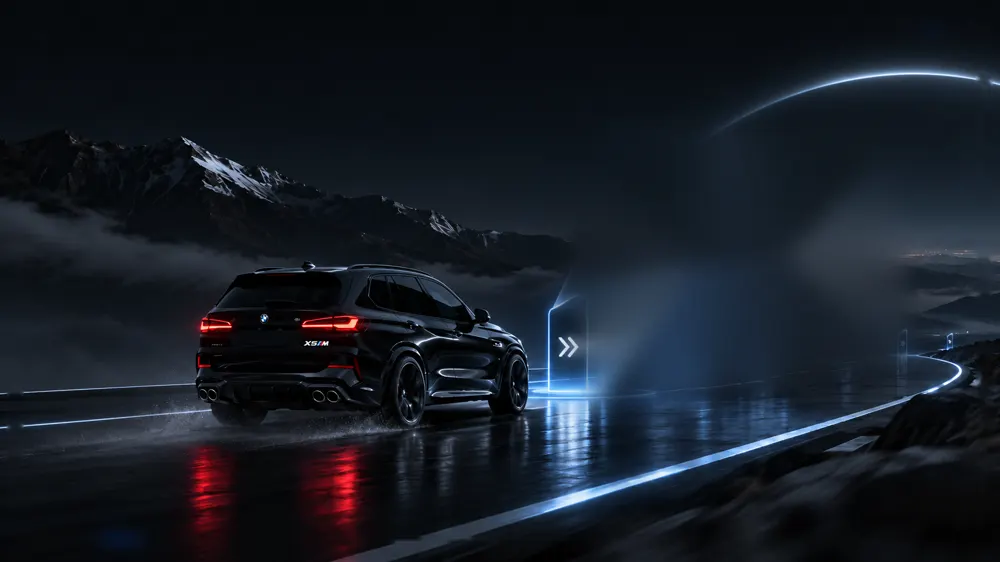
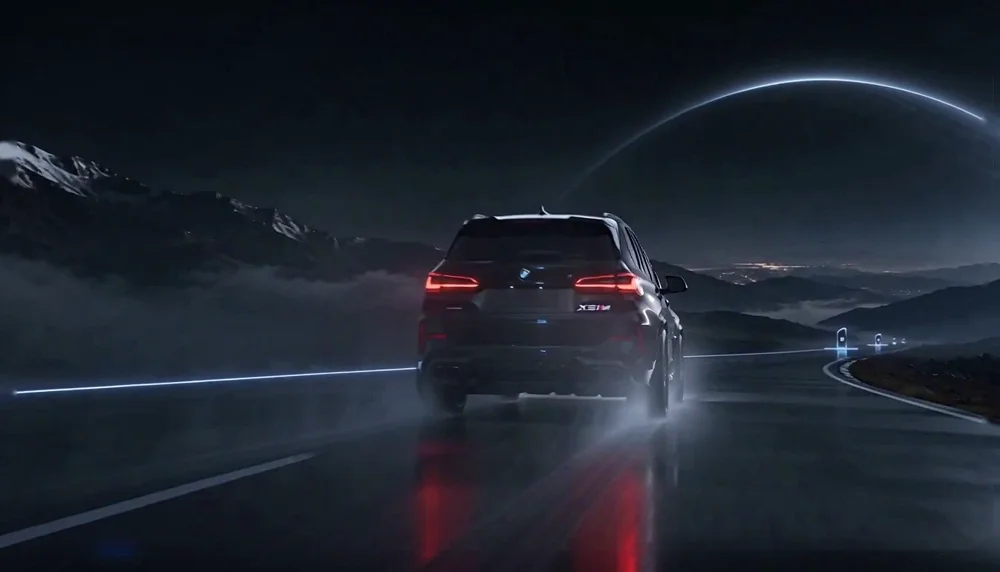
Мобильная версия: сцена на весь экран и карточки снизу; бесшовный конец вступления; плавные переходы
Claude-Session: https://claude.ai/code/session_01QUwKFWEF5ddN8PEAZgc18w

diff --git a/styles.css b/styles.css
@@ -135,7 +135,7 @@ h1, h2, h3, h4, p { margin: 0; }
 .panel.is-active { opacity: 1; visibility: visible; }
 .panel::before { content: ""; position: absolute; top: -1px; height: 1px; right: 28px; left: 38%; background: linear-gradient(90deg, transparent, rgba(110, 180, 255, .85)); box-shadow: 0 0 10px rgba(74, 158, 255, .5); pointer-events: none; }
 .panel--hero { --top: 22vh; right: 6vw; width: min(460px, 36vw); background: linear-gradient(160deg, rgba(14, 18, 25, .62), rgba(8, 10, 13, .7)); }
-.panel--about { --top: clamp(96px, 21vh, 220px); right: 4.5vw; width: min(560px, 38vw); }
+.panel--about { --top: clamp(96px, 18vh, 200px); left: 4vw; width: min(540px, 36vw); }
 .panel--works { --top: clamp(96px, 13vh, 150px); left: 4vw; width: min(900px, 54vw); }
 .panel--price { --top: clamp(110px, 21vh, 230px); left: 5vw; width: min(620px, 44vw); }
 .panel--contacts { --top: clamp(100px, 16vh, 190px); left: 3vw; width: min(540px, 38vw); }
@@ -263,7 +263,6 @@ h1, h2, h3, h4, p { margin: 0; }
 .intro-playing .panel--hero { padding: 0; overflow: visible; background: none; border-color: transparent; box-shadow: none; -webkit-backdrop-filter: none; backdrop-filter: none; }
 .intro-playing .panel--hero::before { display: none; }
 .intro-playing .route-list button { background: rgba(10, 13, 18, .62); -webkit-backdrop-filter: blur(10px); backdrop-filter: blur(10px); }
-.intro-gate .panel--hero { opacity: 0 !important; visibility: hidden !important; }
 @keyframes gate-pop { 0% { box-shadow: 0 0 0 rgba(74, 158, 255, 0); } 30% { box-shadow: 0 0 16px rgba(74, 158, 255, .9); border-color: #9fd0ff; } }
 
 .gate-tag { position: absolute; z-index: 3; left: 50%; top: 50%; display: flex; align-items: baseline; gap: 10px; padding: 9px 16px; border: 1px solid rgba(110, 175, 255, .55); border-radius: 10px; background: rgba(8, 12, 20, .72); box-shadow: 0 0 24px rgba(74, 158, 255, .25); transform: translate(-50%, calc(-100% - 70px)); white-space: nowrap; opacity: 0; visibility: hidden; pointer-events: none; }
@@ -317,101 +316,104 @@ h1, h2, h3, h4, p { margin: 0; }
   .route-nav__num { font-size: 12px; }
 }
 
-/* ---------- Телефоны: сцена сверху, панель снизу ---------- */
+/* ---------- Телефоны: сцена на весь экран, карточки снизу ---------- */
 
 @media (max-width: 760px) {
-  :root { --scene-h: 44svh; --hud-h: 64px; }
+  :root { --hud-h: 64px; }
   body { font-size: 14px; }
-  .scene { bottom: auto; height: var(--scene-h); }
-  .scene::after { content: ""; position: absolute; left: 0; right: 0; bottom: 0; height: 30%; background: linear-gradient(transparent, var(--bg)); }
+  .scene::after { content: ""; position: absolute; inset: 0; background: linear-gradient(180deg, transparent 38%, rgba(8, 10, 13, .75) 52%, var(--bg) 62%); pointer-events: none; }
   .hud-frame, .fog, .hud__hint { display: none; }
   .plate.is-active > img:not(.plate__fallback) { animation: none; }
+  .vignette { background: linear-gradient(180deg, rgba(4, 5, 8, .6), transparent 22%); }
   .gate-tag { transform: translate(-50%, calc(-100% - 36px)); padding: 7px 12px; }
-  .vignette { background: linear-gradient(180deg, rgba(4, 5, 8, .55), transparent 30%); }
 
-  .topbar { padding: calc(14px + env(safe-area-inset-top)) 16px 0; flex-direction: column; gap: 0; }
-  .route-list__title { margin-top: 20px; }
-  .route-list button { min-height: 50px; }
-  .intro-playing .panel--hero { width: auto; padding: 18px 18px 28px; }
-  .intro-gate .panel--hero { opacity: 1 !important; visibility: visible !important; }
+  .topbar { padding: calc(14px + env(safe-area-inset-top)) 16px 0; flex-direction: column; gap: 10px; }
   .brand { height: 32px; gap: 12px; }
   .brand__mark { width: 32px; }
   .brand__divider { height: 22px; }
   .brand__text { font-size: 11px; }
-  .route-nav { position: fixed; left: 0; right: 0; top: calc(var(--scene-h) - 46px); }
-  .route-nav ol { justify-content: space-between; padding: 0 8px; overflow-x: auto; scrollbar-width: none; }
-  .route-nav button { flex-direction: column; align-items: center; gap: 0; min-width: 72px; padding: 6px 6px 12px; font-size: 11px; white-space: nowrap; }
-  .route-nav button::after { left: 18px; right: 18px; bottom: 4px; }
+  .route-nav { align-self: stretch; }
+  .route-nav ol { justify-content: space-between; gap: 2px; overflow-x: auto; scrollbar-width: none; }
+  .route-nav button { flex-direction: column; align-items: center; gap: 0; min-width: 0; padding: 6px 6px 12px; font-size: 11px; white-space: nowrap; }
+  .route-nav button::after { left: 14px; right: 14px; bottom: 4px; }
 
-  .panels { top: var(--scene-h); bottom: var(--hud-h); }
-  .panel, .panel--hero, .panel--about, .panel--works, .panel--price, .panel--contacts {
-    --top: 0px;
-    inset: 0;
+  .panels { inset: 44% 10px calc(var(--hud-h) + 10px); }
+  .panel, .panel--hero, .panel--about, .panel--works, .panel--price, .panel--contacts,
+  .intro-playing .panel--hero {
+    --top: auto;
+    top: auto;
+    left: 0;
+    right: 0;
+    bottom: 0;
     width: auto;
-    max-height: none;
-    padding: 18px 18px 28px;
-    border: 0;
-    border-top: 1px solid var(--line);
-    border-radius: 20px 20px 0 0;
-    background: linear-gradient(180deg, rgba(16, 20, 27, .96), var(--bg) 40%);
-    box-shadow: none;
+    max-height: 100%;
+    padding: 18px 16px 20px;
+    border-radius: 20px;
+    background: rgba(12, 15, 21, .9);
+    box-shadow: 0 -10px 40px rgba(0, 0, 0, .45);
     -webkit-backdrop-filter: none;
     backdrop-filter: none;
   }
+  .intro-playing .panel--hero { background: rgba(12, 15, 21, .82); border-color: var(--line); }
   .panel::before { left: 45%; right: 24px; }
-  .panel h1 { font-size: 28px; margin-top: 10px; }
-  .panel h2 { font-size: 30px; }
-  .title-xl { font-size: 40px !important; }
-  .panel__dash { margin-bottom: 12px; }
-  .panel__actions { margin-top: 20px; }
+  .panel h1 { font-size: 26px; margin-top: 8px; }
+  .panel h2 { font-size: 28px; }
+  .title-xl { font-size: 36px !important; }
+  .panel__lead { margin-top: 10px; font-size: 14px; }
+  .panel__dash { margin-bottom: 10px; }
+  .panel__actions { margin-top: 16px; }
   .panel__actions .button { flex: 1 1 auto; }
+  .route-list__title { margin-top: 16px; }
+  .intro-playing .route-list__title { margin-top: 0; }
+  .route-list { gap: 6px; }
+  .route-list button { min-height: 48px; padding: 6px 12px; }
 
-  .about { grid-template-columns: 84px 1fr; gap: 16px; margin-top: 16px; }
-  .about__photo { width: 84px; height: 84px; border-radius: 12px; }
+  .about { grid-template-columns: 72px 1fr; gap: 14px; margin-top: 14px; }
+  .about__photo { width: 72px; height: 72px; border-radius: 12px; }
   .about__copy { padding-left: 0; border-left: 0; font-size: 13px; }
-  .about__lead { font-size: 15px; }
-  .about__copy p:not(.about__lead) { grid-column: 1 / -1; }
-  .chips { margin-top: 18px; }
-  .chip { min-height: 38px; padding: 0 12px; font-size: 12px; }
+  .about__lead { font-size: 14px; }
+  .chips { margin-top: 16px; gap: 6px; }
+  .chip { min-height: 36px; padding: 0 12px; font-size: 12px; }
 
-  .works { grid-template-columns: repeat(2, minmax(0, 1fr)); gap: 10px; margin-top: 16px; }
-  .work-card__meta { left: 10px; right: 26px; bottom: 9px; }
+  .works { grid-template-columns: repeat(2, minmax(0, 1fr)); gap: 8px; margin-top: 14px; }
+  .work-card__meta { left: 10px; right: 24px; bottom: 8px; }
   .work-card__meta strong { font-size: 12px; }
   .work-card__meta small { font-size: 9px; letter-spacing: .1em; }
-  .work-card__arrow { right: 9px; bottom: 9px; font-size: 13px; }
-  .button--ghost { width: 100%; }
+  .work-card__arrow { right: 8px; bottom: 8px; font-size: 13px; }
+  .button--ghost { width: 100%; margin-top: 14px; }
 
-  .price-tabs { flex-wrap: nowrap; overflow-x: auto; margin: 18px -18px 0; padding: 0 18px 4px; scrollbar-width: none; }
+  .price-tabs { flex-wrap: nowrap; overflow-x: auto; margin: 14px -16px 0; padding: 0 16px 4px; scrollbar-width: none; }
   .price-tab { flex: none; }
-  .price-row { grid-template-columns: 22px 1fr auto; gap: 10px; min-height: 56px; padding: 10px 14px; }
+  .price-row { grid-template-columns: 22px 1fr auto; gap: 10px; min-height: 52px; padding: 8px 14px; }
   .price-row__line { display: none; }
   .price-row__title { font-size: 11px; letter-spacing: .08em; }
   .price-row__value { font-size: 16px; }
-  .price-note { margin: 16px 0; }
+  .price-note { margin: 14px 0; }
   .panel--price .button { width: 100%; }
 
-  .contacts { margin: 18px 0 20px; }
-  .contact { grid-template-columns: 44px 1fr auto; gap: 14px; min-height: 64px; padding: 10px 16px 10px 10px; }
+  .panel__rule { margin: 12px 0 14px; }
+  .contacts { margin: 14px 0 16px; gap: 8px; }
+  .contact { grid-template-columns: 44px 1fr auto; gap: 14px; min-height: 60px; padding: 8px 14px 8px 8px; }
   .contact__icon { width: 44px; height: 44px; }
 
-  .hud { height: var(--hud-h); padding: 0 12px calc(env(safe-area-inset-bottom) * .5) 16px; border-top: 1px solid var(--line); background: rgba(8, 10, 13, .96); }
+  .hud { height: calc(var(--hud-h) + env(safe-area-inset-bottom)); padding: 0 12px env(safe-area-inset-bottom) 16px; border-top: 1px solid var(--line); background: rgba(8, 10, 13, .96); }
   .progress { gap: 10px; min-width: 0; }
   .progress__track { width: 72px; flex: none; }
   .progress__label { font-size: 10px; letter-spacing: .14em; overflow: hidden; text-overflow: ellipsis; }
   .hud__controls { gap: 6px; flex: none; }
-  .hud-button { min-height: 40px; padding: 0 12px; font-size: 10px; letter-spacing: .1em; }
+  .hud-button { min-height: 40px; padding: 0 12px; font-size: 10px; letter-spacing: .1em; -webkit-backdrop-filter: none; backdrop-filter: none; }
   .hud-button--icon { width: 40px; padding: 0; }
   #route-restart { display: none; }
 
   .project-modal { padding: 0; place-items: end stretch; }
-  .project-modal__card { grid-template-columns: 1fr; grid-template-rows: auto 1fr; width: 100%; max-height: 92svh; border-radius: 20px 20px 0 0; }
+  .project-modal__card { grid-template-columns: 1fr; grid-template-rows: auto 1fr; width: 100%; max-height: 92%; border-radius: 20px 20px 0 0; }
   .project-modal__media { min-height: 0; aspect-ratio: 16 / 10; }
   .project-modal__body { padding: 22px 18px calc(22px + env(safe-area-inset-bottom)); }
   .project-modal__actions .button { flex: 1 1 auto; }
 }
 
-@media (max-width: 760px) and (max-height: 640px) {
-  :root { --scene-h: 38svh; }
+@media (max-width: 760px) and (max-height: 680px) {
+  .panels { top: 40%; }
 }
 
 @media (max-height: 520px) and (min-width: 761px) {

diff --git a/app.js b/app.js
@@ -82,9 +82,7 @@
     { hash: 'contacts', label: '04 · Контакты' },
   ];
   const LAST = STAGES.length - 1;
-  const INTRO_END = 7.45;
-  const INTRO_MARKS = [0.7, 1.9, 3.1, 4.3];
-  const INTRO_GATE = 6.1;
+  const INTRO_MARKS = [0.8, 2.2, 3.6, 5.0];
   const PLATE_AR = 1672 / 941;
   const WORKS_PREVIEW = 6;
   const SEEN_KEY = 'spartak-drive-seen';
@@ -135,11 +133,14 @@
     const ch = rect.height;
     plates.forEach((plate) => {
       const ar = Number(plate.dataset.ar) || PLATE_AR;
-      const w = Math.max(cw, ch * ar);
+      const mobile = isMobile();
+      const w = Math.max(cw, (mobile ? ch * 0.6 : ch) * ar);
       const h = w / ar;
-      const fx = Number(isMobile() ? plate.dataset.mfx : plate.dataset.fx) || 0.5;
+      const fx = Number(mobile ? plate.dataset.mfx : plate.dataset.fx) || 0.5;
       const left = Math.min(0, Math.max(cw - w, cw / 2 - fx * w));
-      const top = Math.min(0, Math.max(ch - h, ch / 2 - 0.5 * h));
+      const top = mobile
+        ? Math.min(0, ch * 0.3 - (Number(plate.dataset.my) || 0.6) * h)
+        : Math.min(0, Math.max(ch - h, ch / 2 - 0.5 * h));
       Object.assign(plate.style, { width: `${w}px`, height: `${h}px`, left: `${left}px`, top: `${top}px` });
       plate.style.setProperty('--gx', `${Number(plate.dataset.gx) * 100}%`);
       plate.style.setProperty('--gy', `${Number(plate.dataset.gy) * 100}%`);
@@ -278,7 +279,7 @@
 
     const fast = reducedMotion.matches || !window.gsap;
     const mobile = isMobile();
-    const total = fast ? 0.35 : (options.fromIntro ? 1.1 : (mobile ? 1.0 : 1.45));
+    const total = fast ? 0.35 : (options.fromIntro ? 0.8 : (mobile ? 1.05 : 1.4));
     setProgress(target, total);
 
     const finish = () => {
@@ -326,37 +327,41 @@
     tag.style.left = `${origin.x}px`;
     tag.style.top = `${origin.y}px`;
     const children = $$(':scope > *', inPanel);
-    const shift = mobile ? { x: 28 * dir, y: 0 } : { x: 0, y: 18 };
-    const tl = gsap.timeline({ onComplete: finish, defaults: { ease: 'power2.inOut' } });
+    const shift = mobile ? { x: 0, y: 26 } : { x: 0, y: 18 };
+    const tl = gsap.timeline({ onComplete: finish, defaults: { ease: 'sine.inOut' } });
 
-    tl.to(outPanel, { autoAlpha: 0, x: -shift.x * 0.6, y: -shift.y * 0.4, duration: 0.32, ease: 'power2.in' }, 0);
-    gsap.set(inPlate, { autoAlpha: 0, scale: dir > 0 ? 1.07 : 0.97, transformOrigin: originIn });
+    tl.to(outPanel, { autoAlpha: 0, x: -shift.x * 0.6, y: mobile ? 16 : -shift.y * 0.4, duration: 0.32, ease: 'power2.in' }, 0);
     gsap.set(outPlate, { transformOrigin: originOut });
 
     if (options.fromIntro) {
-      tl.to(bloom, { opacity: 0.95, duration: 0.28, ease: 'power1.in' }, 0)
-        .set(inPlate, { autoAlpha: 1 }, 0.3)
-        .set(outPlate, { autoAlpha: 0 }, 0.3)
-        .to(inPlate, { scale: 1, duration: 0.9, ease: 'power3.out' }, 0.3)
-        .to(bloom, { opacity: 0, duration: 0.75, ease: 'power2.out' }, 0.32);
+      gsap.set(inPlate, { autoAlpha: 0, scale: 1, transformOrigin: originIn });
+      tl.to(inPlate, { autoAlpha: 1, duration: 0.25, ease: 'none' }, 0)
+        .set(outPlate, { autoAlpha: 0 }, 0.3);
+    } else if (dir > 0) {
+      gsap.set(inPlate, { autoAlpha: 0, scale: 1.06, transformOrigin: originIn });
+      tl.to(outPlate, { scale: 1.12, duration: total * 0.6, ease: 'power1.in' }, 0)
+        .to(outPlate, { autoAlpha: 0, duration: total * 0.45, ease: 'sine.in' }, total * 0.08)
+        .to(bloom, { opacity: 0.32, duration: total * 0.4, ease: 'sine.in' }, total * 0.1)
+        .to(bloom, { opacity: 0, duration: total * 0.45, ease: 'sine.out' }, total * 0.5)
+        .to(inPlate, { autoAlpha: 1, duration: total * 0.45, ease: 'sine.out' }, total * 0.42)
+        .to(inPlate, { scale: 1, duration: total * 0.6, ease: 'power2.out' }, total * 0.4);
     } else {
-      tl.to(outPlate, { scale: dir > 0 ? 1.16 : 0.95, duration: total * 0.62, ease: 'power2.in' }, 0)
-        .to(bloom, { opacity: 0.82, duration: total * 0.4, ease: 'power1.in' }, total * 0.1)
-        .to(inPlate, { autoAlpha: 1, duration: total * 0.2, ease: 'none' }, total * 0.44)
-        .to(outPlate, { autoAlpha: 0, duration: total * 0.16, ease: 'none' }, total * 0.5)
-        .to(inPlate, { scale: 1, duration: total * 0.55, ease: 'power3.out' }, total * 0.46)
-        .to(bloom, { opacity: 0, duration: total * 0.45, ease: 'power2.out' }, total * 0.55);
-      if (!mobile) {
-        tl.fromTo(outPlate, { filter: 'blur(0px)' }, { filter: 'blur(3px)', duration: total * 0.5, ease: 'power1.in' }, total * 0.1);
-      }
+      gsap.set(inPlate, { autoAlpha: 0, scale: 1.1, transformOrigin: originIn });
+      tl.to(outPlate, { scale: 1.04, duration: total * 0.55, ease: 'sine.in' }, 0)
+        .to(outPlate, { autoAlpha: 0, duration: total * 0.45, ease: 'sine.in' }, 0.04)
+        .to(inPlate, { autoAlpha: 1, duration: total * 0.45, ease: 'sine.out' }, total * 0.38)
+        .to(inPlate, { scale: 1, duration: total * 0.7, ease: 'power3.out' }, total * 0.32);
+    }
+    if (!mobile && !options.fromIntro) {
+      tl.fromTo(outPlate, { filter: 'blur(0px)' }, { filter: 'blur(5px)', duration: total * 0.45, ease: 'sine.in' }, 0);
     }
 
-    if (target > 0 && !options.fromIntro) {
+    if (dir > 0 && target > 0 && !options.fromIntro) {
       tl.fromTo(tag, { autoAlpha: 0, y: 10 }, { autoAlpha: 1, y: 0, duration: total * 0.3, ease: 'power2.out' }, 0.05)
         .to(tag, { autoAlpha: 0, y: -12, duration: total * 0.25, ease: 'power2.in' }, total * 0.5);
     }
 
-    const panelAt = options.fromIntro ? 0.55 : total * 0.68;
+    const panelAt = options.fromIntro ? 0.15 : total * 0.62;
     tl.call(() => setPanelState(target, true), null, panelAt)
       .fromTo(inPanel, { autoAlpha: 0, x: shift.x, y: shift.y }, { autoAlpha: 1, x: 0, y: 0, duration: 0.5, ease: 'power3.out' }, panelAt)
       .fromTo(children, { autoAlpha: 0, y: 10 }, { autoAlpha: 1, y: 0, duration: 0.42, stagger: 0.045, ease: 'power2.out', clearProps: 'transform,opacity,visibility' }, panelAt + 0.06);
@@ -382,10 +387,10 @@
   function watchIntro() {
     if (!state.introPlaying) return;
     const t = video.currentTime || 0;
-    setProgress(Math.min(1, t / (INTRO_END + 0.2)) * 0.98);
+    const end = video.duration || 8.33;
+    setProgress(Math.min(1, t / end) * 0.98);
     $$('#route-list li').forEach((item, index) => item.classList.toggle('is-shown', t >= INTRO_MARKS[index]));
-    root.classList.toggle('intro-gate', t >= INTRO_GATE);
-    if (t >= INTRO_END) { finishIntro(); return; }
+    if (t >= end - 0.06) { finishIntro(); return; }
     introFrame = requestAnimationFrame(watchIntro);
   }
 
@@ -408,7 +413,7 @@
   function stopIntro() {
     state.introPlaying = false;
     cancelAnimationFrame(introFrame);
-    root.classList.remove('intro-playing', 'intro-gate');
+    root.classList.remove('intro-playing');
     $('#skip-intro').hidden = true;
     state.introDone = true;
     writeSeen();
@@ -417,9 +422,9 @@
 
   function finishIntro() {
     if (!state.introPlaying) return;
-    const playedToGate = (video.currentTime || 0) >= INTRO_END - 0.4;
+    const playedToEnd = (video.currentTime || 0) >= (video.duration || 8.33) - 0.3;
     stopIntro();
-    goTo(1, { fromIntro: playedToGate });
+    goTo(1, { fromIntro: playedToEnd });
   }
 
   /* ---------- Ввод: колесо, клавиатура, касания ---------- */

diff --git a/index.html b/index.html
@@ -28,14 +28,14 @@
 
     <div class="app" id="app" data-stage="0">
       <div class="scene" id="scene" aria-hidden="true">
-        <div class="plate plate--video" data-plate="0" data-ar="1.75" data-fx="0.5" data-mfx="0.27" data-gx="0.686" data-gy="0.62">
+        <div class="plate plate--video" data-plate="0" data-ar="1.75" data-fx="0.5" data-mfx="0.3" data-my="0.61" data-gx="0.686" data-gy="0.62">
           <video id="intro-video" muted playsinline preload="metadata" poster="assets/drive/intro-poster.webp" disablepictureinpicture></video>
           <img class="plate__fallback" src="assets/drive/start.webp" alt="" />
         </div>
-        <div class="plate" data-plate="1" data-src="about" data-fx="0.5" data-mfx="0.4" data-gx="0.568" data-gy="0.62"><i class="gate-glow"></i></div>
-        <div class="plate" data-plate="2" data-src="works" data-fx="0.5" data-mfx="0.68" data-gx="0.575" data-gy="0.63"><i class="gate-glow"></i></div>
-        <div class="plate" data-plate="3" data-src="price" data-fx="0.5" data-mfx="0.72" data-gx="0.816" data-gy="0.58"><i class="gate-glow"></i></div>
-        <div class="plate" data-plate="4" data-src="contacts" data-fx="0.5" data-mfx="0.8" data-gx="0.909" data-gy="0.57"><i class="gate-glow gate-glow--final"></i></div>
+        <div class="plate" data-plate="1" data-src="about" data-ar="1.7518" data-fx="0.5" data-mfx="0.55" data-my="0.55" data-gx="0.84" data-gy="0.6"><i class="gate-glow"></i></div>
+        <div class="plate" data-plate="2" data-src="works" data-fx="0.5" data-mfx="0.68" data-my="0.58" data-gx="0.575" data-gy="0.63"><i class="gate-glow"></i></div>
+        <div class="plate" data-plate="3" data-src="price" data-fx="0.5" data-mfx="0.72" data-my="0.58" data-gx="0.816" data-gy="0.58"><i class="gate-glow"></i></div>
+        <div class="plate" data-plate="4" data-src="contacts" data-fx="0.5" data-mfx="0.8" data-my="0.59" data-gx="0.909" data-gy="0.57"><i class="gate-glow gate-glow--final"></i></div>
         <div class="fog"><i></i><i></i></div>
         <div class="bloom" id="bloom"></div>
         <div class="vignette"></div>
